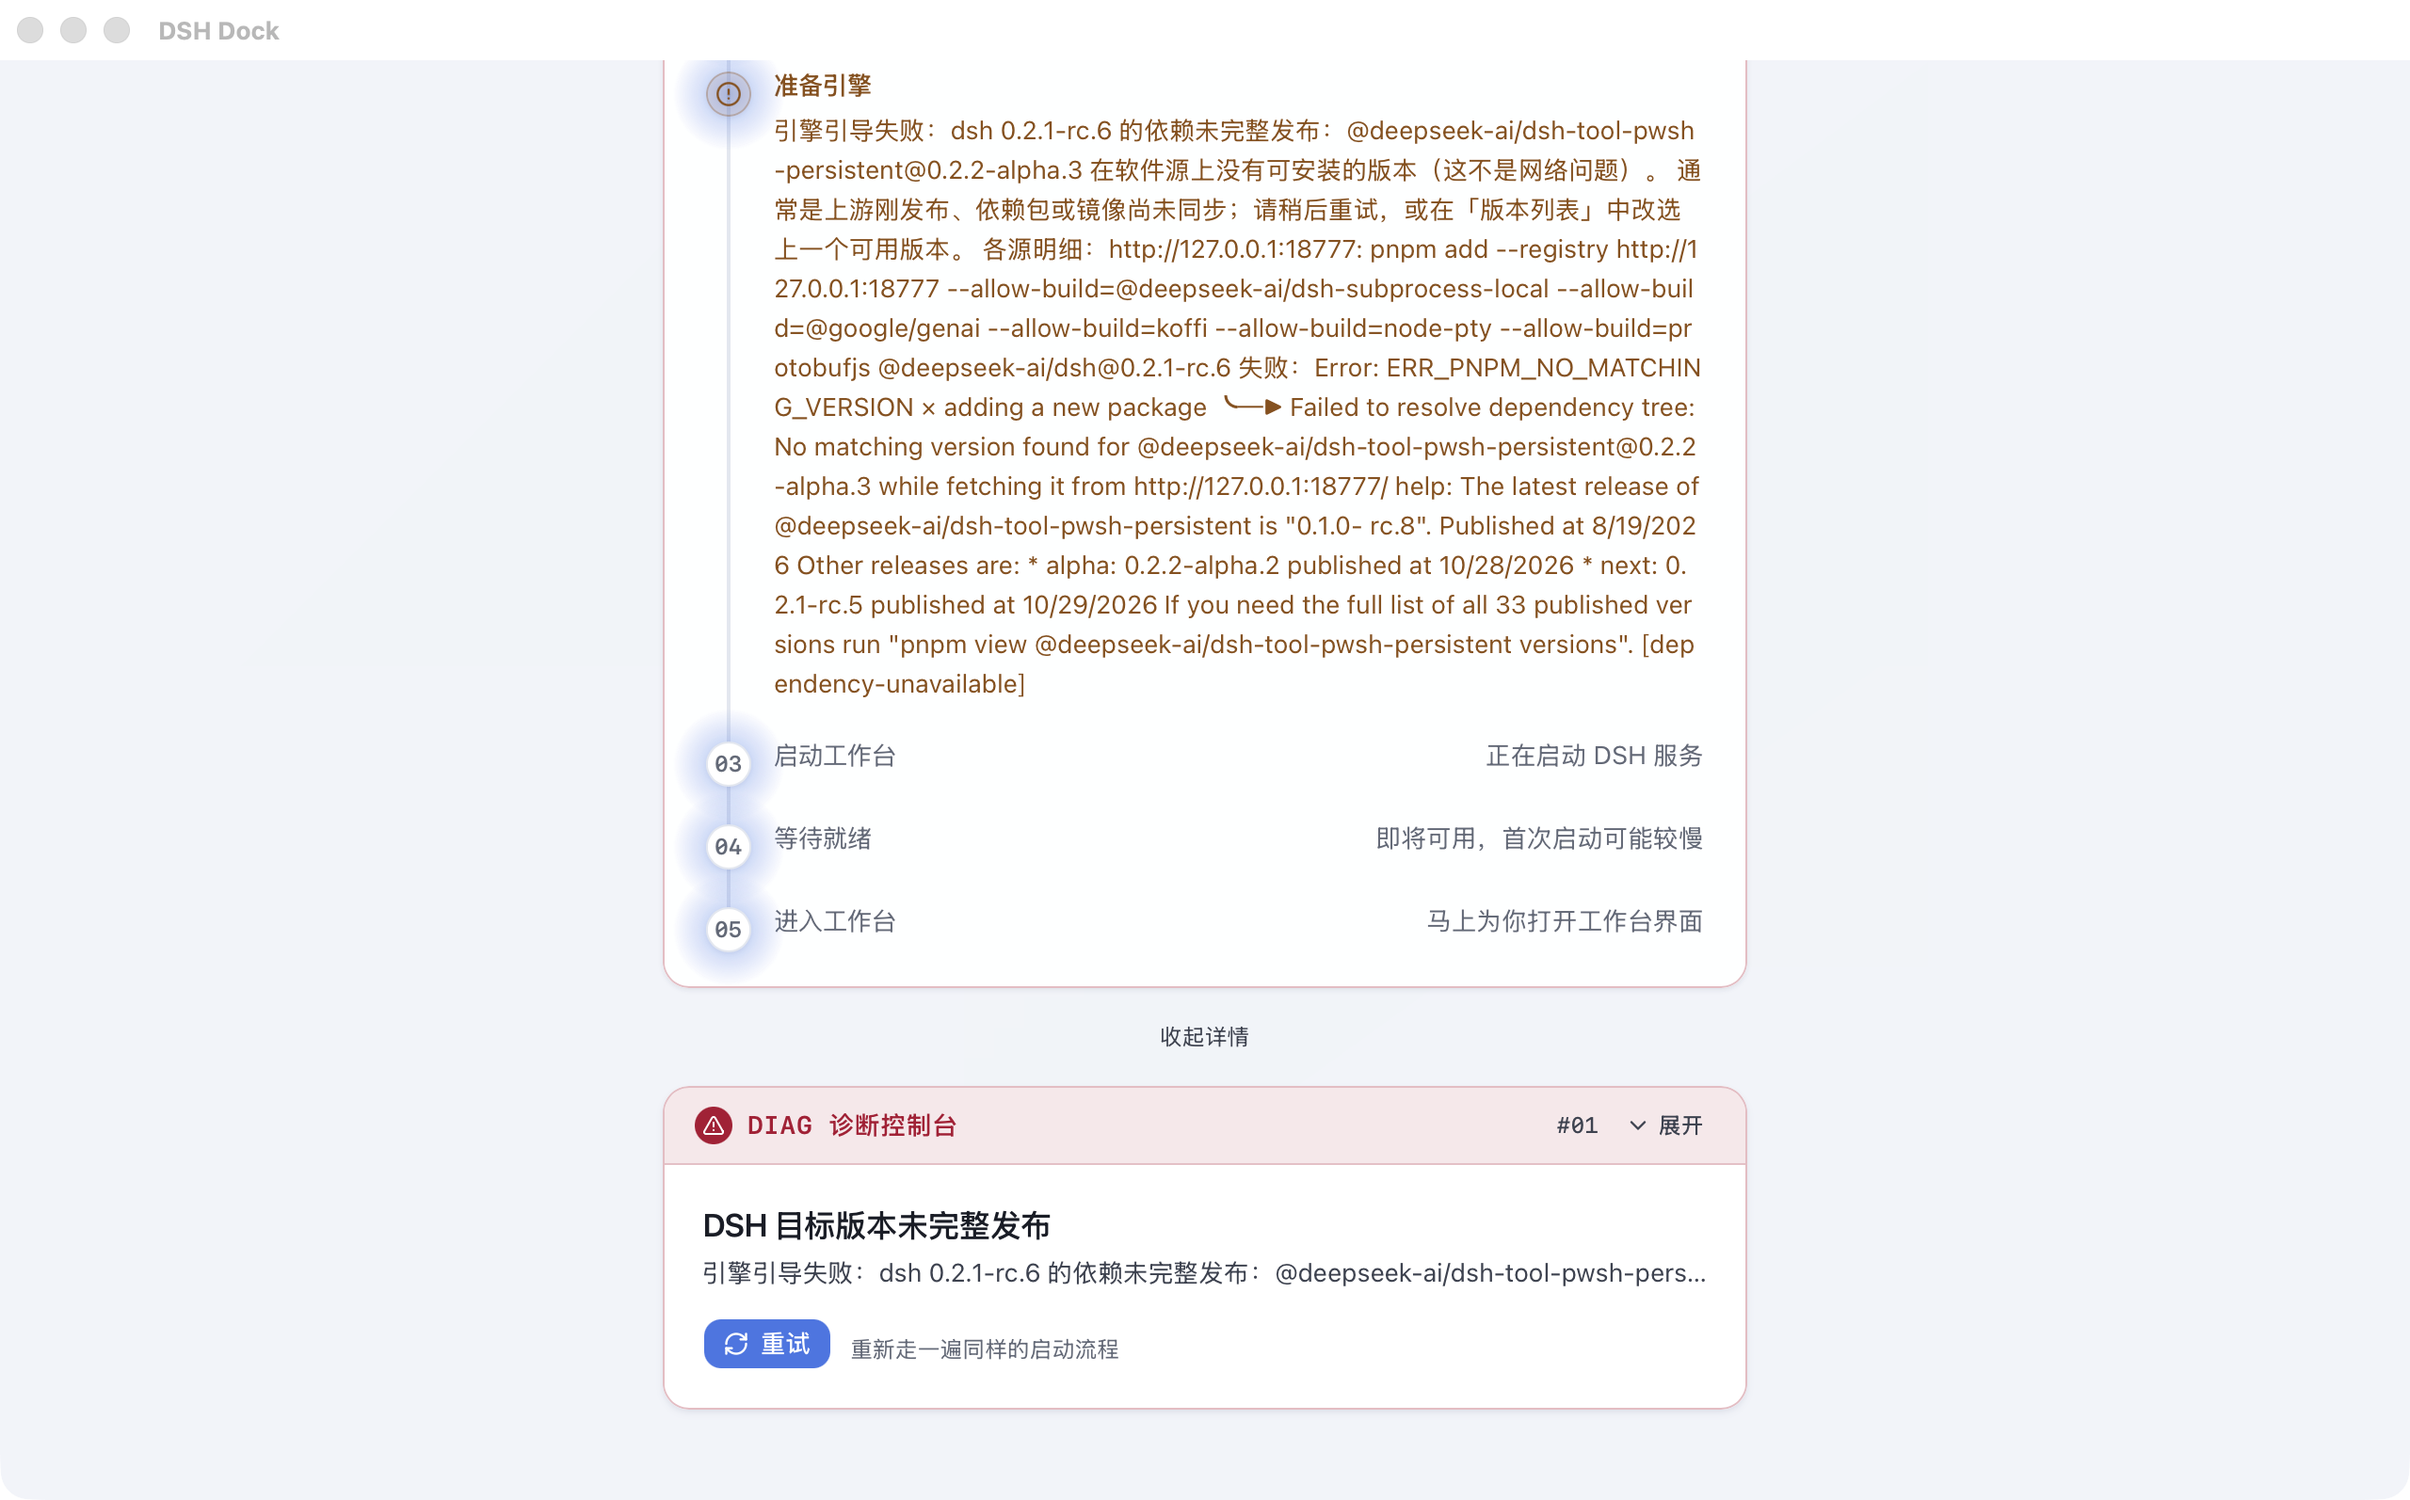
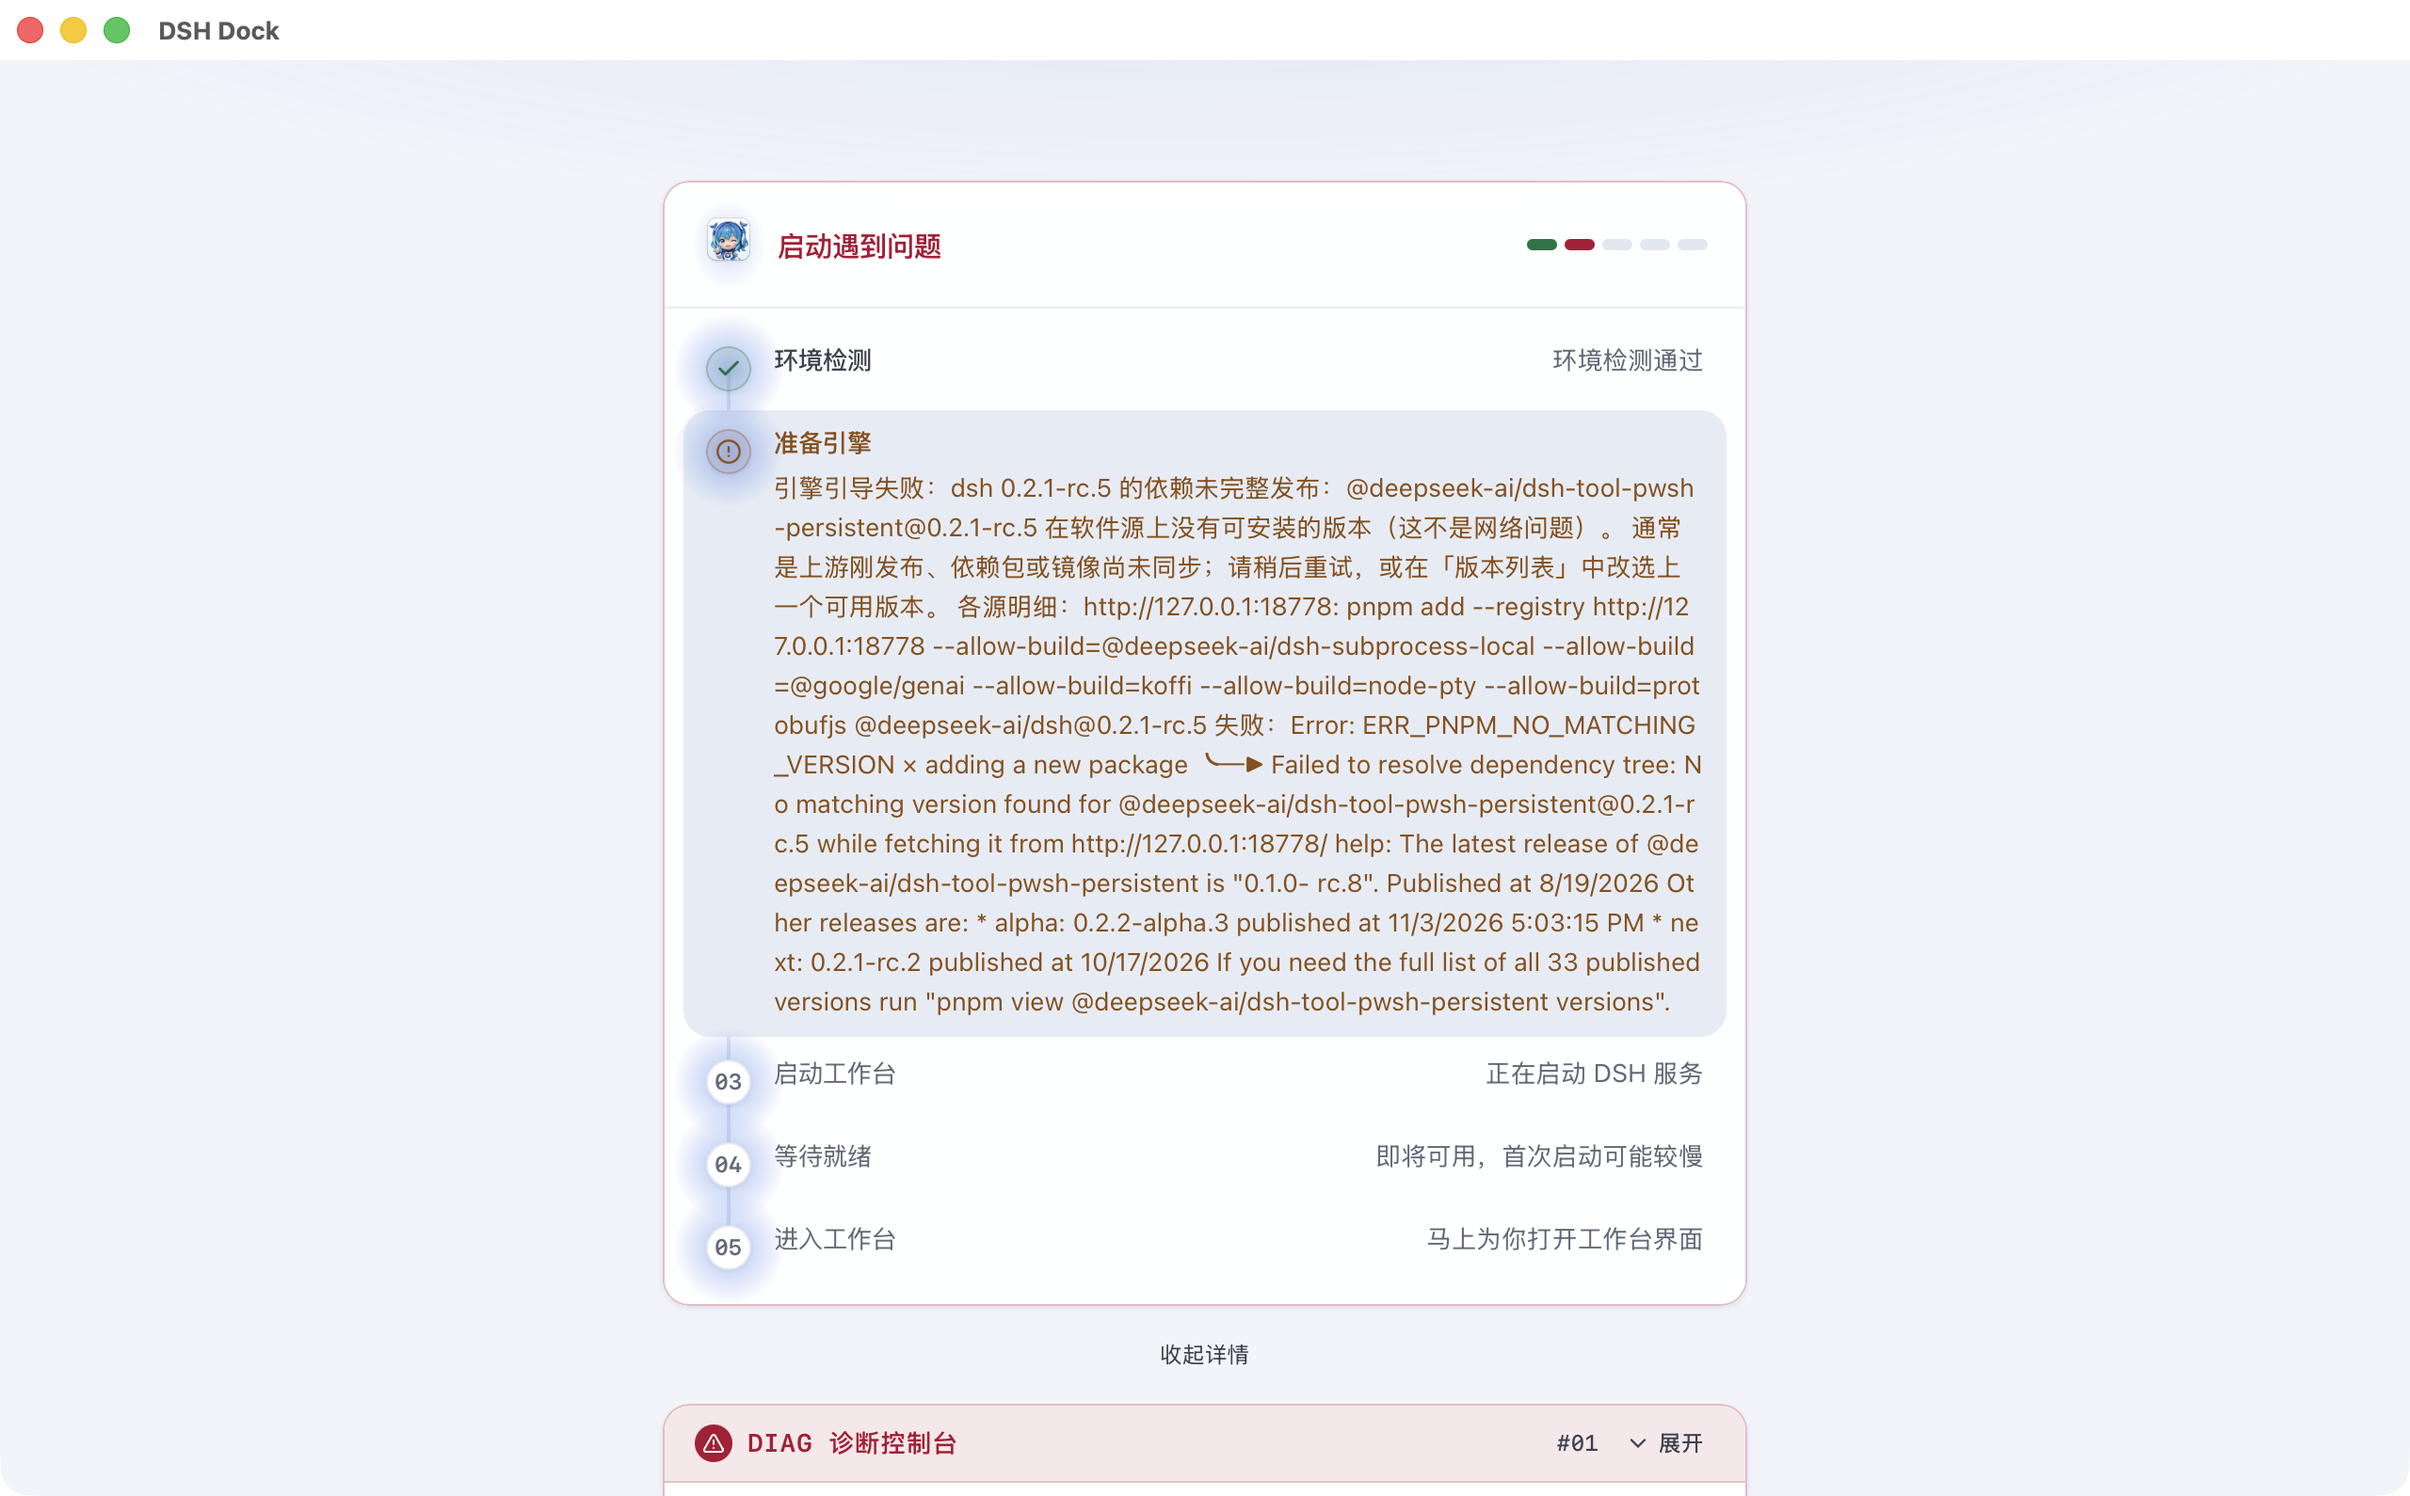
fix(boot): 内部分类标记不再进入用户界面
真机截图暴露 [dependency-unavailable] 随明细渲染进启动步骤详情。改动：
- boot_failure 增加 strip_internal_markers，BootErrorPayload.detail 展示前剥离；
- emit_step / emit_upgrade 同样剥离（executor 的 sink(1,"error",…) 会带出原文）；
- 测试：载荷 detail 不含标记，分类仍按原文命中。
- 证据截图改用真实版本 0.2.1-rc.5：本地 registry 仅隐藏其真实存在的
  @deepseek-ai/dsh-tool-pwsh-persistent@0.2.1-rc.5（不再构造不存在的版本）。

AI-Assisted: DeepSeek Harness（AI 起草与自测）

diff --git a/src-tauri/src/boot_failure.rs b/src-tauri/src/boot_failure.rs
@@ -31,6 +31,15 @@ pub(crate) const SYMLINK_PRIVILEGE_MARKER: &str = "[symlink-privilege]";
 /// `while fetching it from https://registry…`），不先按标记分流就会被网络分支吸走。
 pub(crate) const DEPENDENCY_UNAVAILABLE_MARKER: &str = "[dependency-unavailable]";
 
+/// 开发标记只服务**分类**，不得出现在用户界面。
+///
+/// 2026-11-03 真机截图暴露：标记随明细一起渲染进错误卡（`[dependency-unavailable]`
+/// 挂在最后一行）。载荷边界统一剥离：`classify` 用原文，展示用剥过的文本。
+pub(crate) fn strip_internal_markers(text: &str) -> String {
+    text.replace(SYMLINK_PRIVILEGE_MARKER, "")
+        .replace(DEPENDENCY_UNAVAILABLE_MARKER, "")
+}
+
 /// 判定一段（**已小写化**的）错误文本是否为「符号链接特权不足」（Windows 无
 /// `SeCreateSymbolicLinkPrivilege` 时 pnpm 的 global hash link 会以 `os error 5` 失败）。
 ///
@@ -375,7 +384,8 @@ impl BootErrorPayload {
             actions: failure.actions(),
             advanced_actions: failure.advanced_actions(),
             failure,
-            detail: detail.to_string(),
+            // 分类已由调用方用原文完成；写入载荷前剥掉内部标记（不面向用户）。
+            detail: strip_internal_markers(detail),
             log: log_tail.to_string(),
             quarantine: None,
         }
@@ -539,6 +549,32 @@ mod tests {
         assert_eq!(f.actions(), vec!["retry"]);
         let v = serde_json::to_value(&f).unwrap();
         assert_eq!(v["kind"], "dependency_unavailable");
+    }
+
+    /// 内部标记只服务分类：载荷里的 `detail` 必须已剥离（2026-11-03 真机截图
+    /// 里 `[dependency-unavailable]` 跟着明细渲染进了错误卡）。
+    #[test]
+    fn internal_markers_are_stripped_from_payload_detail() {
+        let dep = format!(
+            "升级失败：dsh 0.2.2-alpha.3 的依赖未完整发布…ERR_PNPM_NO_MATCHING_VERSION\n{DEPENDENCY_UNAVAILABLE_MARKER}"
+        );
+        let payload = BootErrorPayload::classify(&dep, "");
+        assert_eq!(payload.failure, BootFailure::DependencyUnavailable);
+        assert!(
+            !payload.detail.contains(DEPENDENCY_UNAVAILABLE_MARKER),
+            "依赖标记泄漏到用户界面：{}",
+            payload.detail
+        );
+        assert!(payload.detail.contains("依赖未完整发布"));
+
+        let priv_detail = format!("{SYMLINK_PRIVILEGE_MARKER}引擎安装需要创建符号链接…");
+        let payload = BootErrorPayload::classify(&priv_detail, "");
+        assert_eq!(payload.failure, BootFailure::SymlinkPrivilegeRequired);
+        assert!(
+            !payload.detail.contains(SYMLINK_PRIVILEGE_MARKER),
+            "特权标记泄漏到用户界面：{}",
+            payload.detail
+        );
     }
 
     /// 稳定标记是**两侧共用**的常量：生产侧拼进去的标记，本表必须认得。

diff --git a/src-tauri/src/boot.rs b/src-tauri/src/boot.rs
@@ -1206,6 +1206,9 @@ pub(crate) fn install_signal_exit_handler() {
 /// 发射 boot:step 事件（state: pending|running|done|error）。
 pub(crate) fn emit_step(app: &tauri::AppHandle, step: usize, state: &str, detail: &str) {
     use tauri::Emitter;
+    // 内部标记只服务分类，不进用户可见的步骤详情（2026-11-03；executor 的
+    // sink(1,"error",…) 会带出安装失败的原文）。
+    let detail = crate::boot_failure::strip_internal_markers(detail);
     tracing::info!("boot:step step={step} state={state} {detail}");
     let payload = serde_json::json!({
         "step": step,
@@ -1259,6 +1262,8 @@ pub(crate) fn download_progress_bridge(
 /// （前端提示「已是最新」而非「升级完成」）。
 pub(crate) fn emit_upgrade(app: &tauri::AppHandle, phase: &str, detail: &str, installed: bool) {
     use tauri::Emitter;
+    // 内部标记只服务分类，不进用户可见的关于页提示（2026-11-03）。
+    let detail = crate::boot_failure::strip_internal_markers(detail);
     let _ = app.emit(
         "dsh:upgrade",
         serde_json::json!({ "phase": phase, "detail": detail, "installed": installed }),
